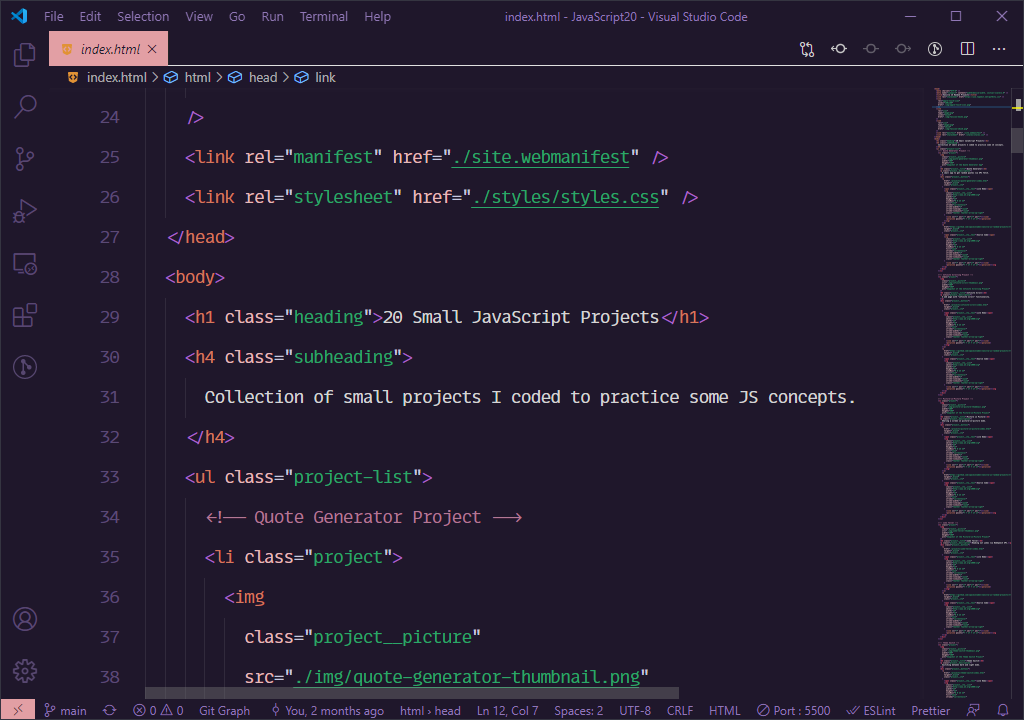
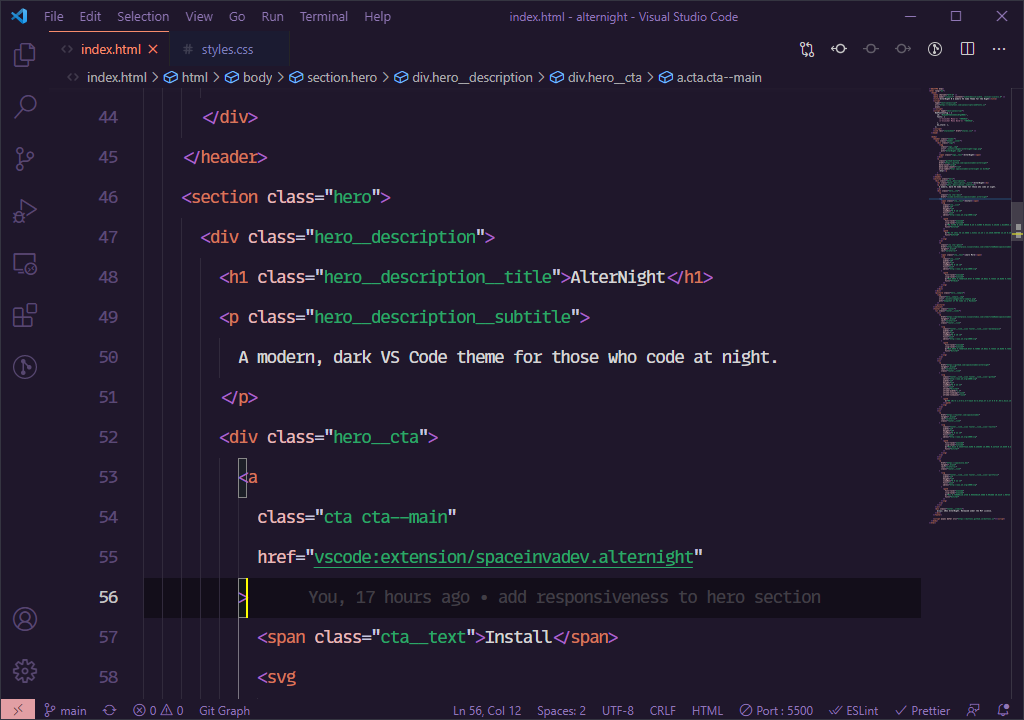
update preview screenshots

diff --git a/README.md b/README.md
@@ -7,7 +7,7 @@ A Visual Studio Code theme for those who code at night
 
 ## AlterNight
 
-![Home Screen](https://raw.githubusercontent.com/spaceinvadev/alternight-vscode-theme/main/preview-sidebar.png)
+![Home Screen](https://raw.githubusercontent.com/spaceinvadev/alternight-vscode-theme/main/preview-sidebar-menu.png)
 
 ### ReactJS
 
@@ -57,10 +57,10 @@ The typeface I used (as shown on the sample images) is **MonoLisa** — a nice c
 "editor.fontSize": 17,
 
 // Controls letter spacing in pixels
-"editor.letterSpacing": -1,
+"editor.letterSpacing": -1.4,
 
 // Controls the font weight
-"editor.fontWeight": "300",
+"editor.fontWeight": "400",
 
 // Controls the line height. Use 0 to compute the line height from the font size
 "editor.lineHeight": 40,
@@ -87,7 +87,7 @@ You can customize/override the AlterNight theme colors by adding the following t
 
 ```json
 "editor.tokenColorCustomizations": {
-  "[AlterNight YOUR_REMIX]": {
+  "[Your_Custom_AlterNight]": {
     "textMateRules": [
       {
         "scope": [
@@ -97,7 +97,7 @@ You can customize/override the AlterNight theme colors by adding the following t
           "comment.block.documentation"
         ],
         "settings": {
-          "foreground": "#FFFF00"
+          "foreground": "#ffff00"
         }
       }
     ]
@@ -105,8 +105,8 @@ You can customize/override the AlterNight theme colors by adding the following t
 },
 
 "workbench.colorCustomizations": {
-  "[AlterNight YOUR_REMIX]": {
-    "sideBar.background": "#FFFF00",
+  "[Your_Custom_AlterNight]": {
+    "sideBar.background": "#ffff00",
   }
 },
 ```

diff --git a/CHANGELOG.md b/CHANGELOG.md
@@ -4,6 +4,18 @@ All notable changes to this project will be documented in this file.
 
 The format is based on [Keep a Changelog](https://keepachangelog.com/en/1.0.0/), and this project adheres to [Semantic Versioning](https://semver.org/spec/v2.0.0.html).
 
+## [2.5.5] - 2021-02-11
+
+### Updated
+
+- Update sample screenshots.
+
+## [2.5.4] - 2021-01-30
+
+### Changed
+
+- Update styles of editor tabs.
+
 ## [2.5.3] - 2021-01-18
 
 ### Added
